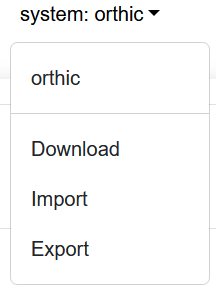
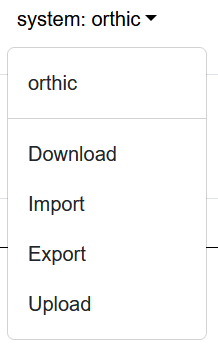
BUG: fix system saving

diff --git a/static/js/index-scripts.js b/static/js/index-scripts.js
@@ -23,8 +23,6 @@ function saveSystems() {
     const systemsJson = JSON.stringify(systems);
     localStorage.setItem('systems', systemsJson);
 
-    const systemsJson2 = localStorage.getItem('systems');
-
     // saveSystemToServer(selectedSystem, systems[selectedSystem])
 }
 
@@ -198,85 +196,9 @@ document.getElementById('importSystem').addEventListener('click', function() {
     fileInput.click();
 });
 
-// Save As Function
-async function saveAs(data) {
-    // Create a new instance of JSZip
-    const zip = new JSZip();
-
-    // Convert the JavaScript object to a JSON string
-    const jsonString = JSON.stringify(data, null, 2); // Pretty-print JSON
-
-    // Add the JSON string to the zip file
-    zip.file('data.json', jsonString);
-
-    // Generate the zip file asynchronously
-    const content = await zip.generateAsync({ type: "blob" });
-
-    // Check if showSaveFilePicker is supported
-    if ('showSaveFilePicker' in window) {
-        try {
-            // Use the File System Access API
-            const options = {
-                suggestedName: (selectedSystem ? selectedSystem : 'system') + '.zip', // Default name for the file
-                types: [{
-                    description: 'ZIP files',
-                    accept: {
-                        'application/zip': ['.zip'],
-                    },
-                }],
-            };
-
-            // Show the save file dialog
-            const fileHandle = await window.showSaveFilePicker(options);
-
-            // Create a writable stream
-            const writableStream = await fileHandle.createWritable();
-
-            // Write the blob data to the file
-            await writableStream.write(content);
-
-            // Close the writable stream
-            await writableStream.close();
-        } catch (err) {
-            if (err.name === 'AbortError') {
-                console.log('User canceled the save operation')
-            } else {
-                console.error('Error during save:', err)
-            }
-        }
-    } else {
-
-        let filename = prompt("Enter the name of the new system:", "new_system_name");
-
-        // If the user clicks "Cancel" or provides an empty input, exit the function
-        if (!filename) {
-            return; // Exit without downloading
-        }
-
-        // Fallback method using a temporary anchor element
-        const link = document.createElement('a');
-        link.href = URL.createObjectURL(content);
-        link.download = filename + '.zip'; // Specify the file name with .zip extension
-
-        // Append to the body
-        document.body.appendChild(link);
-        link.click(); // Trigger the download
-        document.body.removeChild(link); // Clean up the DOM
-    }
-}
-
 // Example usage in the export button event listener
 document.getElementById('exportSystem').addEventListener('click', async function() {
-    // Example JavaScript object to be exported
-    const myObject = {
-        glyphs: {},
-        phrases: {},
-        modes: {},
-        rules: {},
-    };
-
-    // Call the saveAs function with the object and filename
-    await saveAs(myObject);
+    await saveSystemToServer(selectedSystem, systems[selectedSystem])
 });
 
 function addSystemsToDropdown() {
@@ -320,8 +242,6 @@ async function loadSystemsAndUpdateDropdown() {
     addSystemsToDropdown();     // Then run addSystemsToDropdown after
 
     const divider = document.getElementById("systemsDivider");
-
-    console.log(Object.keys(systems).length)
 
     if (Object.keys(systems).length > 0) {
         divider.style.display = "block"; // Show divider if systems exist

diff --git a/help.html b/help.html
@@ -401,11 +401,11 @@
     <div style="text-align: center; padding: 20px;">
     <img src="static/data/images/system_selector.png" alt="The Export button will allow you to download your system as a ZIP folder, which can then be published to the public repository." style="width: 15%; height: auto" />
     <figcaption>
-    The Export button will allow you to download your system as a ZIP folder, which can then be published to the public repository.
+    The Export button will allow you to download your system as a ZIP folder. The ZIP folder can then be submitted to the Github repository using the Upload button.
     </figcaption>
     </div>
 
-    Once you have finished designing your system and have exported it to a ZIP file, you can submit it for inclusion
+    The exported ZIP file will contain four files: `glyphs.json`, `modes.json`, `phrases.json`, and `rules.js`.
 
     <h2 id="conclusion">Conclusion</h2>
     <br>
